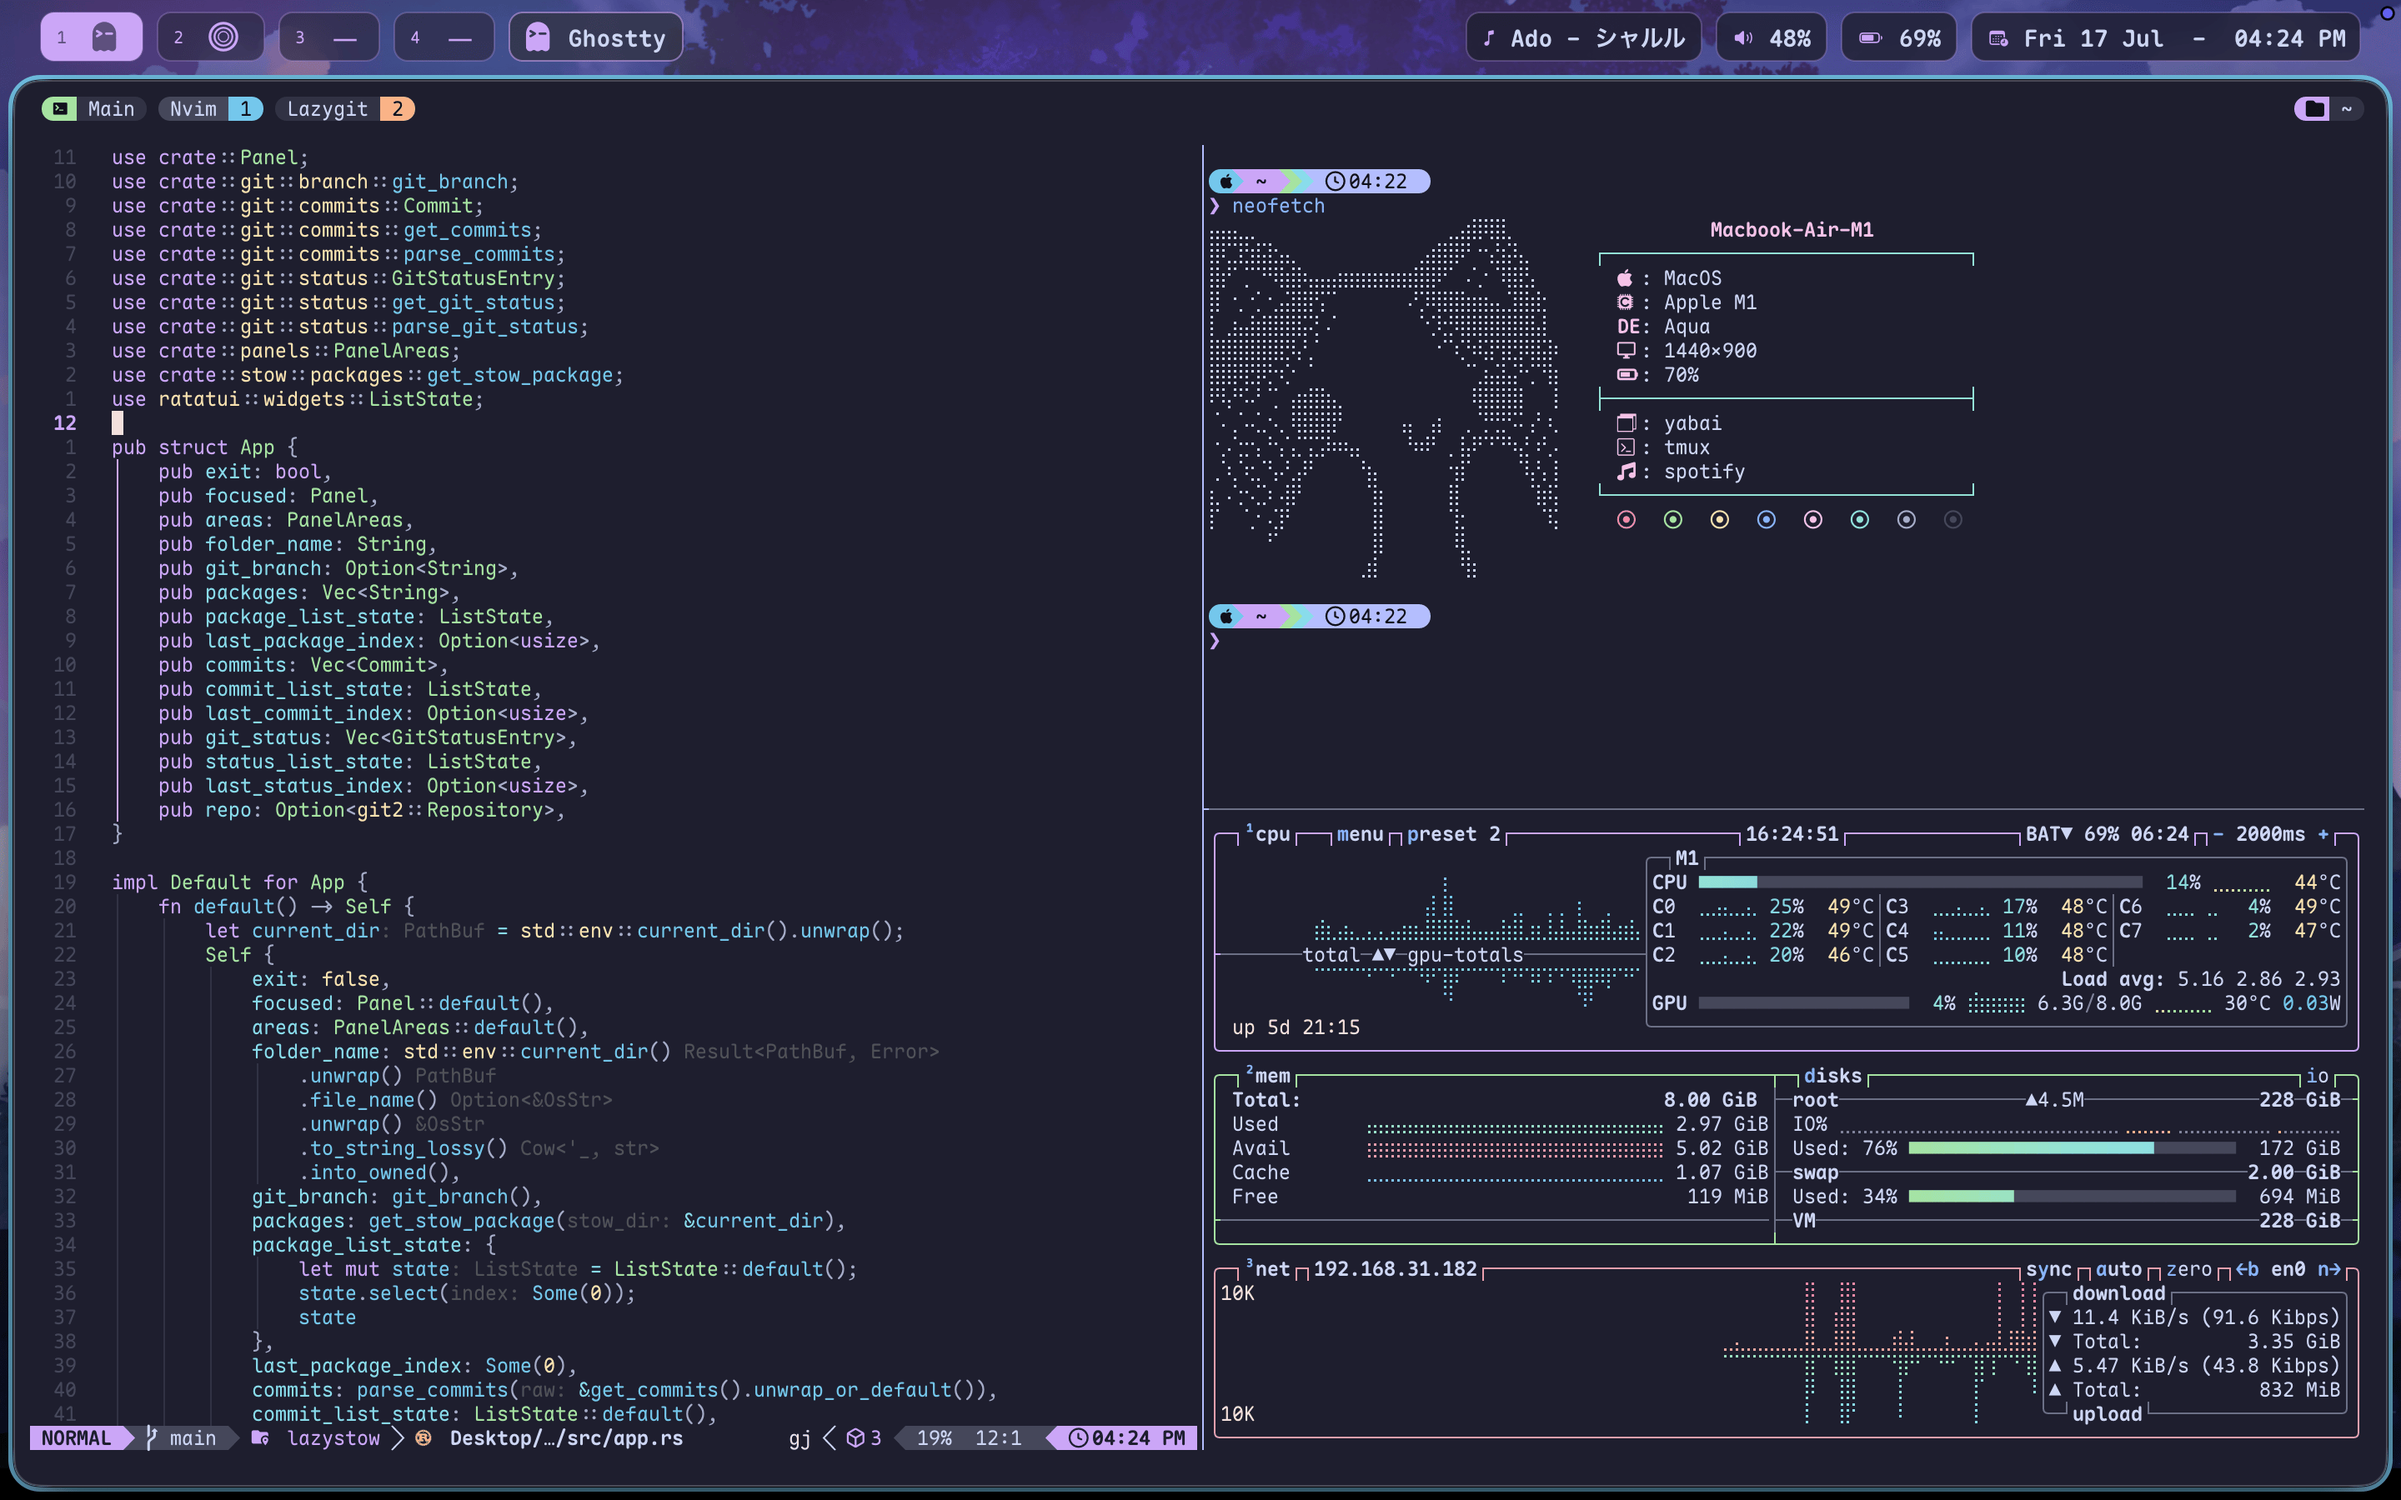
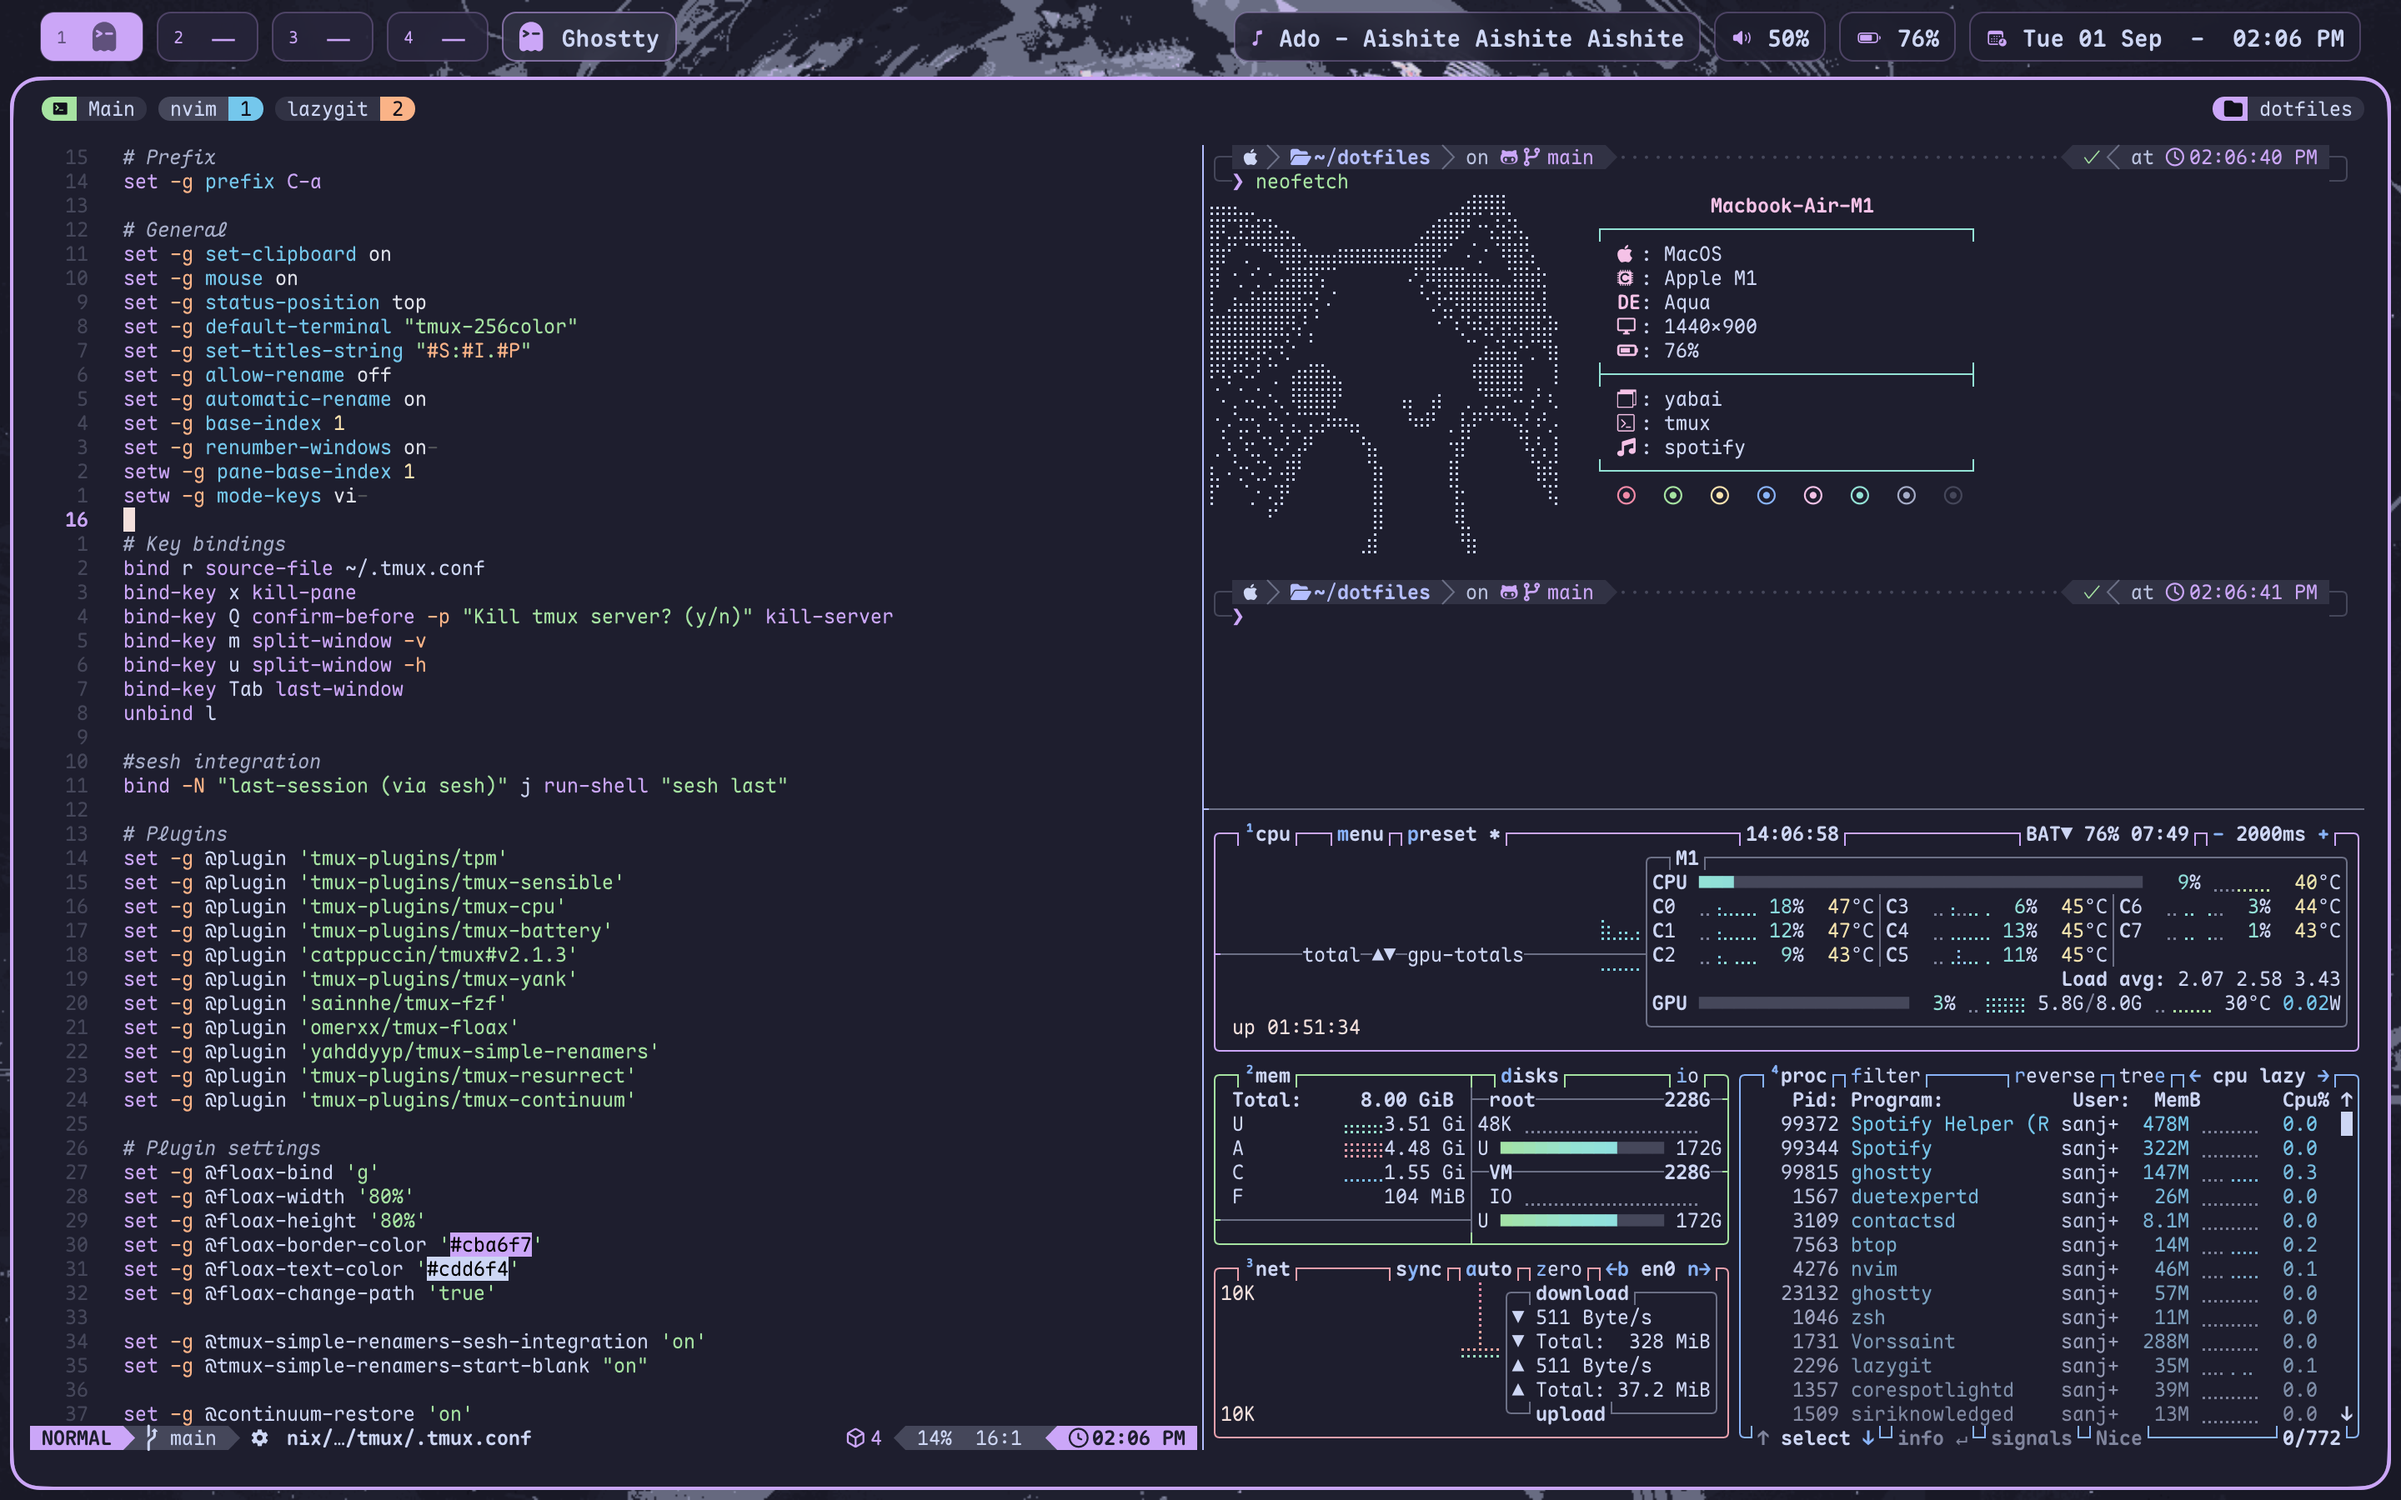
Update images

diff --git a/README.md b/README.md
@@ -1,6 +1,6 @@
 # MacOS Dotfiles
 
-![Full Setup](assets/Desktop.jpeg)
+![Full Setup](assets/Desktop.png)
 
 ![Terminal Setup](assets/Cli.png)
 
